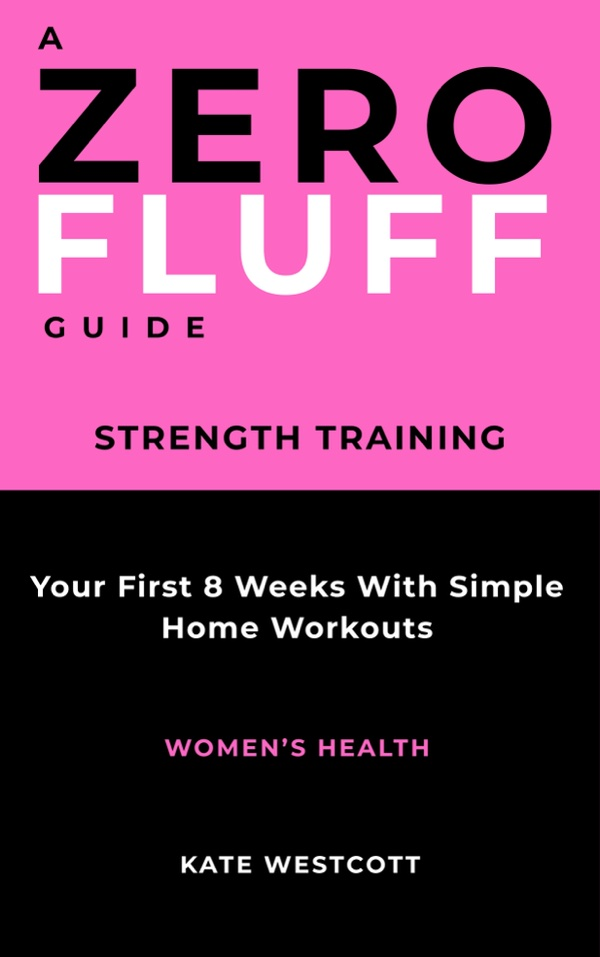
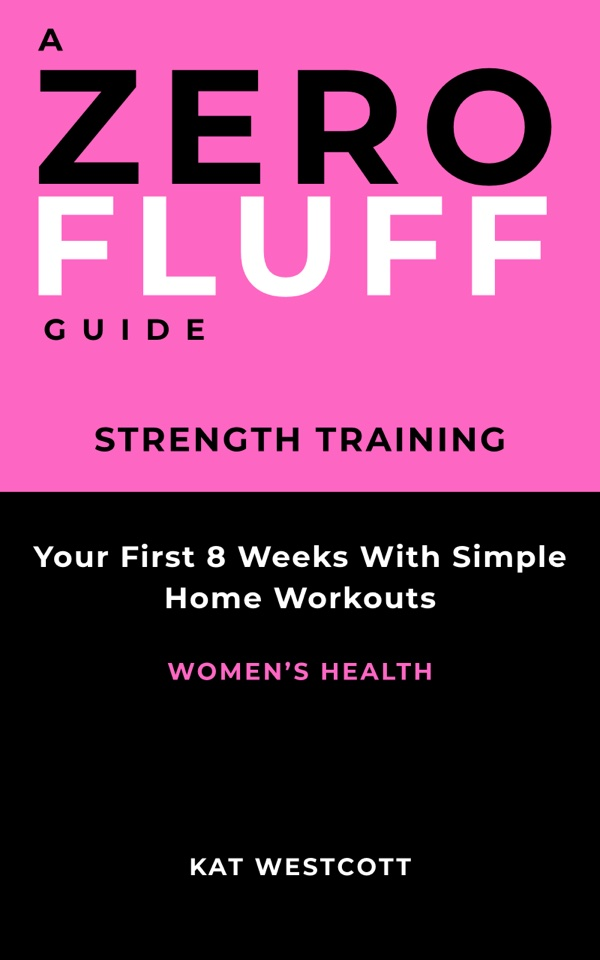
Site covers: new 1600x2560 originals (600x960 copies); Strength Training alt text Kat Westcott
Claude-Session: https://claude.ai/code/session_01FJpq96ZDp5KwfDKweCCch7

diff --git a/preview.html b/preview.html
@@ -291,7 +291,7 @@
       <div class="book-main">
       <div class="book-cover-wrap">
         <div class="niche-tab finance debt-snowball"></div>
-        <img class="book-cover" src="/assets/covers/debt-snowball.jpg?v=4" width="600" height="957" alt="Debt Snowball Method by Dan Orwin cover">
+        <img class="book-cover" src="/assets/covers/debt-snowball.jpg?v=5" width="600" height="960" alt="Debt Snowball Method by Dan Orwin cover">
       </div>
       <div class="book-body">
         <div class="book-meta">
@@ -312,7 +312,7 @@
       <div class="book-main">
       <div class="book-cover-wrap">
         <div class="niche-tab productivity task-batching"></div>
-        <img class="book-cover" src="/assets/covers/task-batching.jpg?v=2" width="600" height="957" alt="Task Batching by Cole Ashford cover">
+        <img class="book-cover" src="/assets/covers/task-batching.jpg?v=3" width="600" height="960" alt="Task Batching by Cole Ashford cover">
       </div>
       <div class="book-body">
         <div class="book-meta">
@@ -333,7 +333,7 @@
       <div class="book-main">
       <div class="book-cover-wrap">
         <div class="niche-tab womens-health strength-training"></div>
-        <img class="book-cover" src="/assets/covers/strength-training.jpg?v=2" width="600" height="957" alt="Strength Training by Kate Westcott cover">
+        <img class="book-cover" src="/assets/covers/strength-training.jpg?v=3" width="600" height="960" alt="Strength Training by Kat Westcott cover">
       </div>
       <div class="book-body">
         <div class="book-meta">
@@ -354,7 +354,7 @@
       <div class="book-main">
       <div class="book-cover-wrap">
         <div class="niche-tab diy home-winter-proofing"></div>
-        <img class="book-cover" src="/assets/covers/home-winter-proofing.jpg?v=2" width="600" height="957" alt="Home Winter Proofing by Rick Donnelly cover">
+        <img class="book-cover" src="/assets/covers/home-winter-proofing.jpg?v=3" width="600" height="960" alt="Home Winter Proofing by Rick Donnelly cover">
       </div>
       <div class="book-body">
         <div class="book-meta">

diff --git a/index.html b/index.html
@@ -284,7 +284,7 @@
       <div class="book-main">
       <div class="book-cover-wrap">
         <div class="niche-tab finance debt-snowball"></div>
-        <img class="book-cover" src="/assets/covers/debt-snowball.jpg?v=4" width="600" height="957" alt="Debt Snowball Method by Dan Orwin cover">
+        <img class="book-cover" src="/assets/covers/debt-snowball.jpg?v=5" width="600" height="960" alt="Debt Snowball Method by Dan Orwin cover">
       </div>
       <div class="book-body">
         <div class="book-meta">
